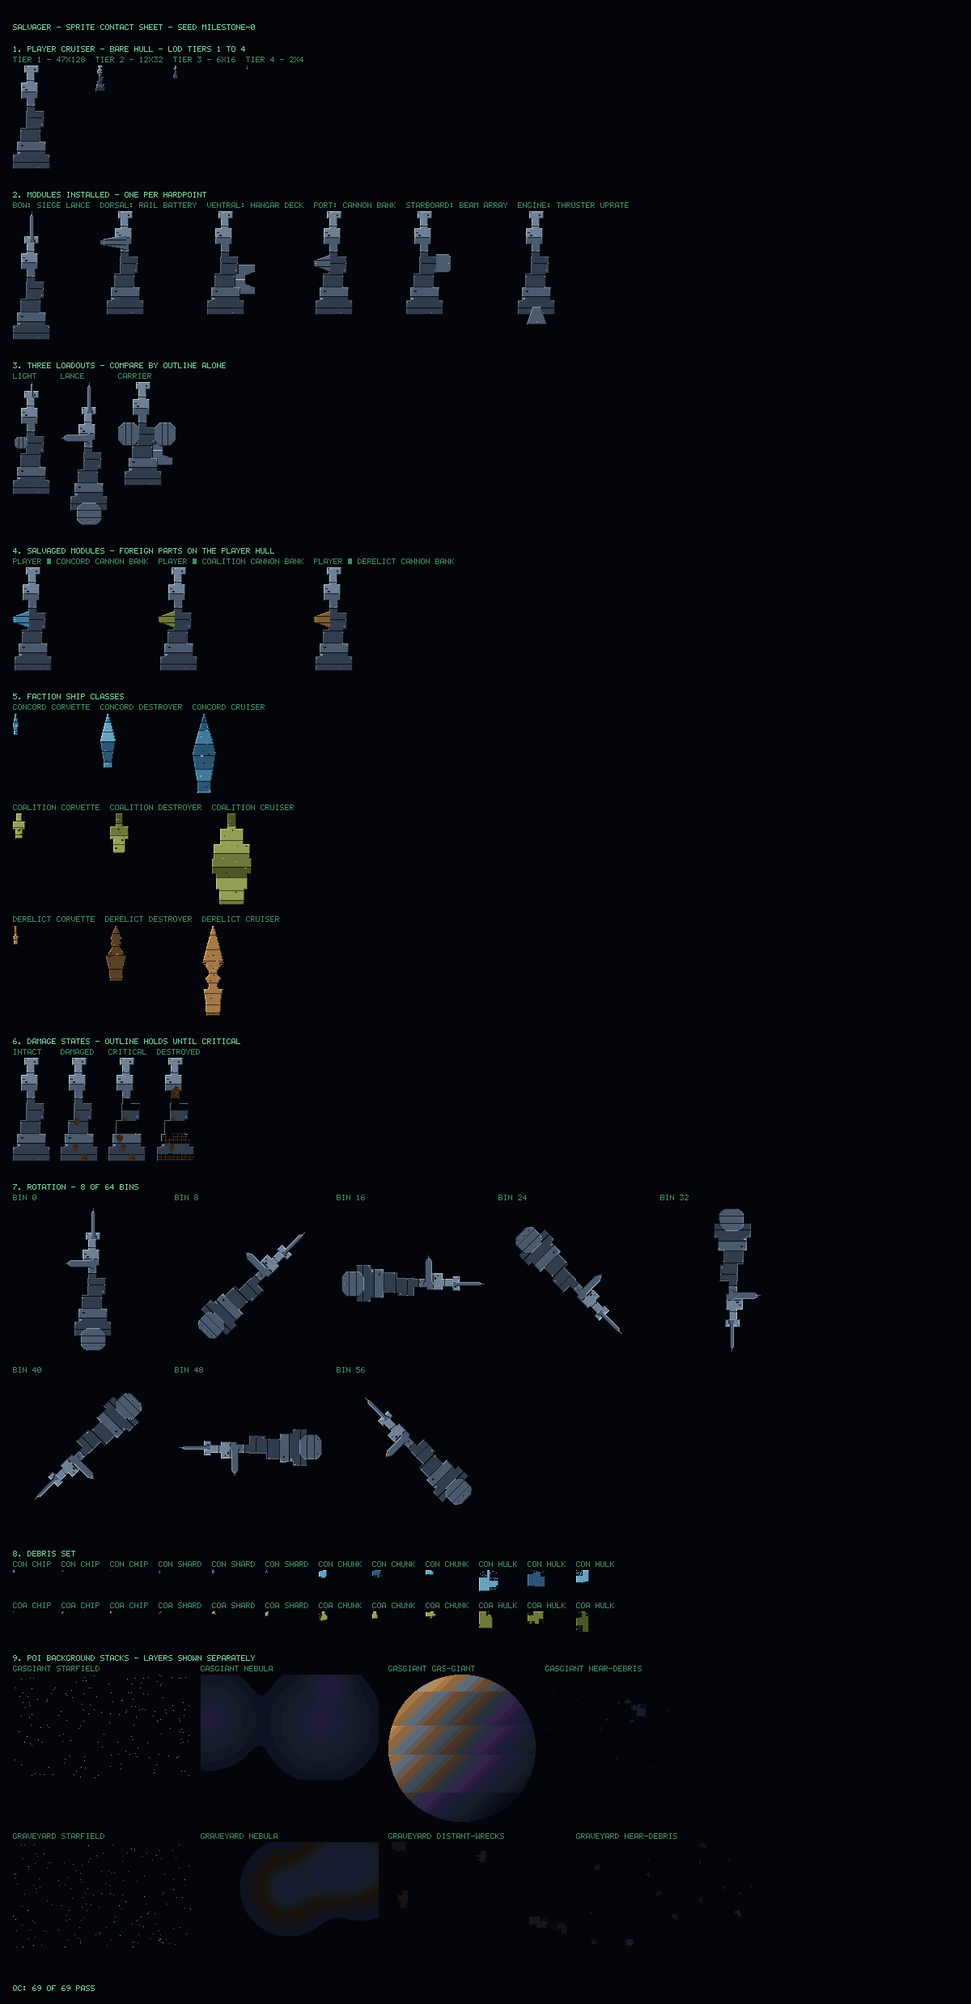
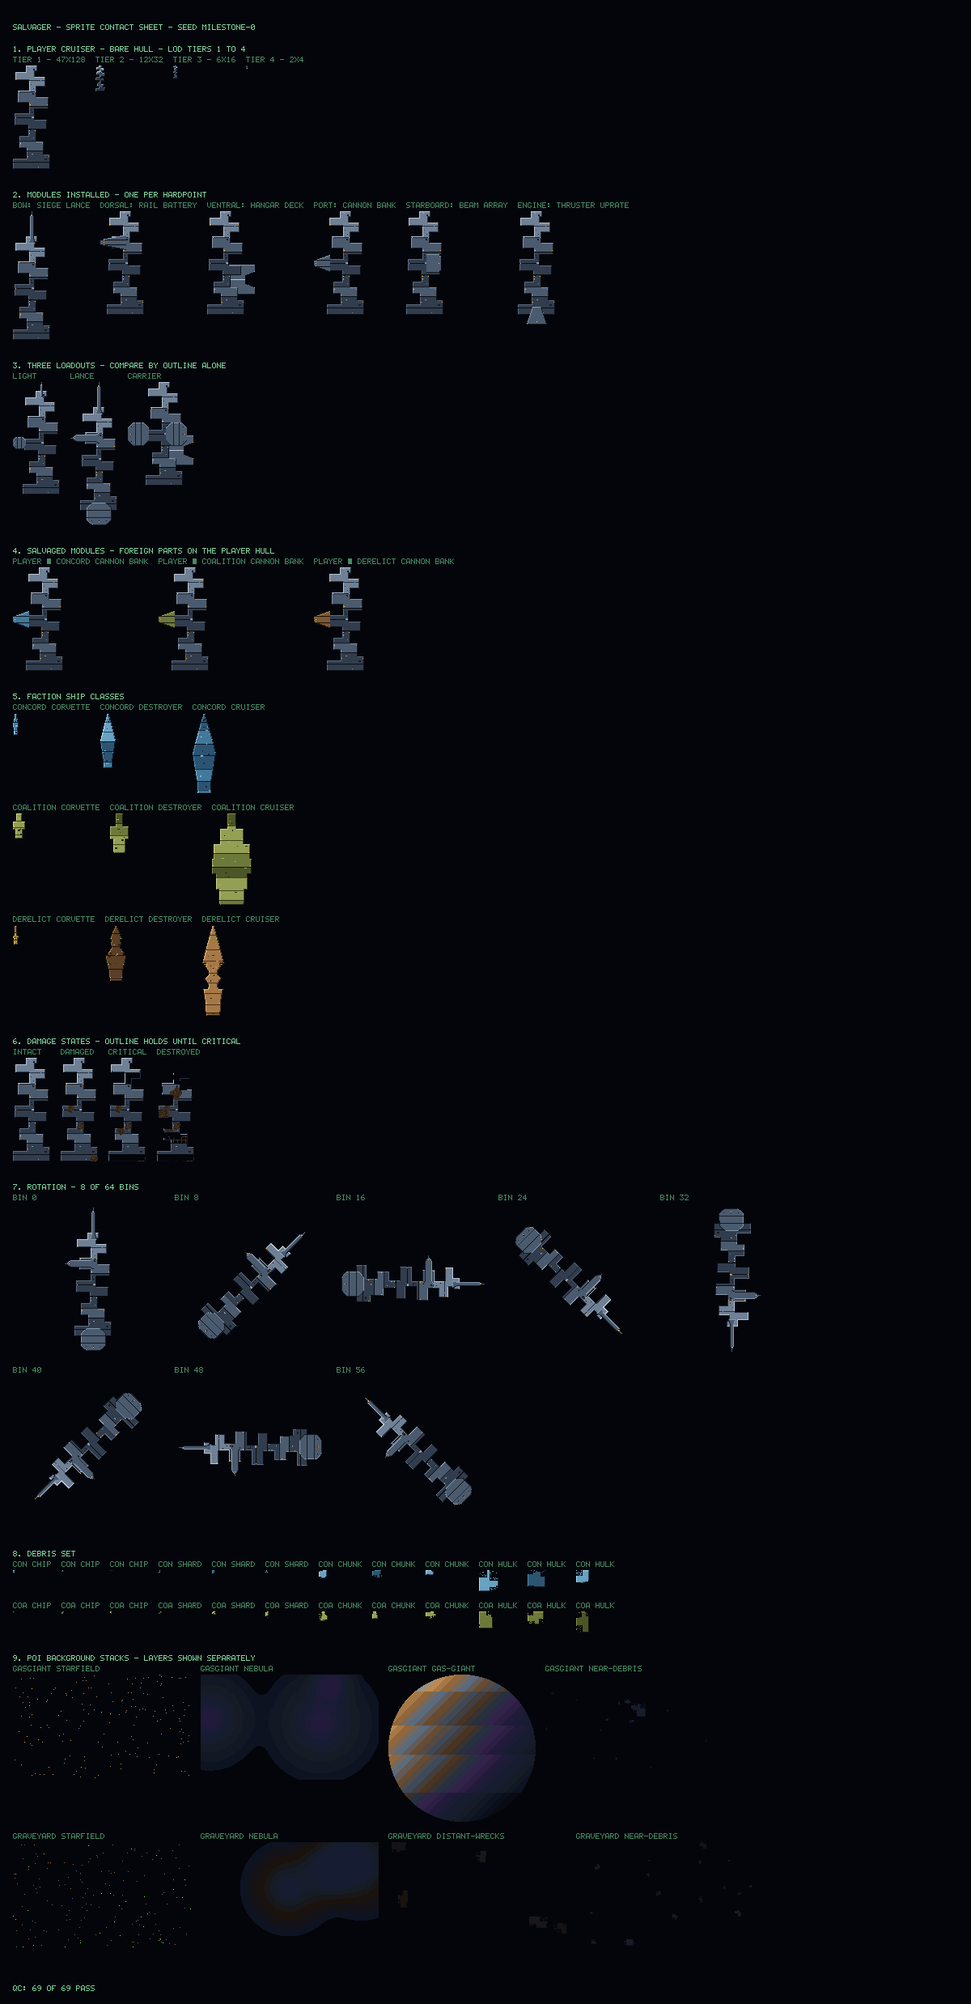
fix: give the player hull an independent left/right seam schedule and make destroyed shed a section
Two blockers from the third contact-sheet review.

Player hull vs Coalition: both sides of the player profile stepped on the
same block boundaries, differing only in fraction, so the silhouette read as
"welded-slab grammar with different tuning" rather than a different grammar.
Port and starboard now step on independent boundary schedules with a wider
fraction range, so seams routinely land mid-block on the other side and
several stations swap which side carries the mass. Coalition (regular,
synchronised, manufactured) and the player hull (irregular, desynchronised,
salvaged) are now distinguishable in pure black/white silhouette alone.
Measured mean |left-right| as a fraction of hull width: 0.072 -> 0.150.

Destroyed damage state: kept the hull's full original height and upright
stance at every seed, escalating only through scorch and a couple of blown
(but rimmed) bands. `destroyed` now sheds one whole end plate band (rim
included, not just interior) with a raggedened seam, plus a much heavier
edge-tear pass elsewhere on the silhouette. `critical` is untouched - the
outline-rule test (zero tolerance) still passes.

Caught mid-implementation: the new bite geometry, tuned against the cruiser,
erased small hulls almost entirely (destroyed corvettes measured 0-1% of
intact opaque area, one seed fully empty) - the exact "ghost outline"
regression a prior review already rejected, re-triggered by a different
[…]

diff --git a/src/gen/damage.ts b/src/gen/damage.ts
@@ -101,6 +101,17 @@ interface StageDelta {
   tearCount: number;
   /** Radius, in pixels, of each bite. */
   tearRadius: number;
+  /**
+   * Whether this stage sheds an entire end plate band — every pixel, rim
+   * included, not just the interior `blowPlateBands` leaves standing. Only
+   * `destroyed` sets this. A gutted-but-rimmed band (what `breachAdd` alone
+   * produces) still holds the ship's original length and upright proportions;
+   * "destroyed" has to cost the hull actual mass, not just texture, or it
+   * reads as "scorched but functional" rather than "wreck". Shedding a whole
+   * end band is what a reviewer's bounding-box-height measurement is meant to
+   * catch changing.
+   */
+  shedEnd: boolean;
 }
 
 // Cumulative severity by `destroyed`, once every prior stage has stacked, is
@@ -109,20 +120,65 @@ interface StageDelta {
 // destroyed) — this table holds each stage's *increment*, not the running
 // total.
 const STAGE_DELTA: Readonly<Record<Exclude<DamageState, 'intact'>, StageDelta>> = {
-  damaged:   { blastCount: 3, blastRadius: 6, lightsOutChance: 0.5, breachAdd: 0, retainStructure: false, tearCount: 0, tearRadius: 0 },
-  critical:  { blastCount: 1, blastRadius: 7, lightsOutChance: 1,   breachAdd: 2, retainStructure: false, tearCount: 0, tearRadius: 0 },
+  damaged:   { blastCount: 3, blastRadius: 6, lightsOutChance: 0.5, breachAdd: 0, retainStructure: false, tearCount: 0,  tearRadius: 0, shedEnd: false },
+  critical:  { blastCount: 1, blastRadius: 7, lightsOutChance: 1,   breachAdd: 2, retainStructure: false, tearCount: 0,  tearRadius: 0, shedEnd: false },
   // Heavier scorch than the old build's per-state total, since "worse than
   // critical" is no longer carried by hollowing more bands out completely —
-  // see `retainStructure` above. The outline itself only chews at a handful
-  // of bounded bites (tearEdges), not an independent 30%-per-pixel roll
-  // across the whole perimeter — that per-pixel roll was what turned a blown
-  // band's surviving rim into a dotted line indistinguishable from a
-  // marching-ants selection outline.
-  destroyed: { blastCount: 3, blastRadius: 9, lightsOutChance: 1,   breachAdd: 2, retainStructure: true,  tearCount: 6, tearRadius: 4 },
+  // see `retainStructure` above. Two things change the outline itself, both
+  // only at `destroyed`: `shedEnd` clears one whole end plate band (rim
+  // included, not just interior — see `shedEndBand`), which is what actually
+  // shortens the hull's bounding box instead of merely texturing it; a much
+  // heavier `tearEdges` pass (up from a token 6/4) then chews ragged bites
+  // both around that fresh amputation and along the rest of the silhouette,
+  // so the loss doesn't read as one clean rectangular crop. Not an
+  // independent 30%-per-pixel roll across the whole perimeter — that per-pixel
+  // roll was what turned a blown band's surviving rim into a dotted line
+  // indistinguishable from a marching-ants selection outline.
+  //
+  // `breachAdd` dropped from 2 to 1 here (critical still blows 2) now that
+  // `shedEnd` also spends a whole band: unchanged, the two mechanisms
+  // together could interior-gut-or-clear every band on a hull with only 3-5
+  // of them, leaving nothing but spar/deck grate lines standing — measured at
+  // 0-1% of intact opaque area on a corvette sample, indistinguishable from
+  // the "ghost outline" regression a prior review already rejected. One fewer
+  // band spent here keeps a solid reserve standing on the smaller size
+  // classes without shrinking the cruiser-scale destruction the contact
+  // sheet is judged against (verified below).
+  destroyed: { blastCount: 3, blastRadius: 9, lightsOutChance: 1,   breachAdd: 1, retainStructure: true,  tearCount: 16, tearRadius: 6, shedEnd: true },
 };
 
 /** Radius of a fallback breach cluster, used only when no plate data is given. */
 const BREACH_RADIUS = 6;
+
+/**
+ * Bite geometry (`tearCount`/`tearRadius` in `STAGE_DELTA`, and the seam bite
+ * radius in `raggedenSeam`) is tuned in fixed pixel units against the
+ * cruiser band this project reviews against most — roughly 50px wide,
+ * 100-128px long. Applied unscaled to a corvette (as little as ~9px wide,
+ * 24px long), a single configured bite radius can span the *entire* hull,
+ * and a configured bite *count* at that radius reliably erases it — verified
+ * directly: pre-scaling, a sample of destroyed corvettes measured 0-1% of
+ * intact opaque area and 0-14% of intact height, i.e. the "eaten down to a
+ * ghost outline" regression a prior review already rejected once, just
+ * re-triggered by a different mechanism. Scaling both down with the hull's
+ * own width/length keeps `destroyed` "structurally broken but still
+ * substantial" at every size class the sweep covers, not only the one the
+ * numbers were tuned against.
+ */
+const TEAR_REF_W = 50;
+const TEAR_REF_H = 110;
+
+function scaledTearRadius(radius: number, out: PixBuf): number {
+  if (radius <= 0) return 0;
+  const scale = Math.max(0.3, Math.min(1, out.w / TEAR_REF_W));
+  return Math.max(2, Math.round(radius * scale));
+}
+
+function scaledTearCount(count: number, out: PixBuf): number {
+  if (count <= 0) return 0;
+  const scale = Math.max(0.3, Math.min(1, out.h / TEAR_REF_H));
+  return Math.max(2, Math.round(count * scale));
+}
 
 /** True when every eight-neighbour is opaque — safe to punch without touching the outline. */
 function isInteriorPixel(buf: PixBuf, x: number, y: number): boolean {
@@ -287,31 +343,30 @@ function blowPlateBands(
 }
 
 /**
- * Chews a handful of bounded, irregular bites out of the outline — reuses the
- * blast-lobe construction so a bite is a solid, connected notch rather than
- * scattered pixels, applied only to boundary pixels so it stays a torn edge
- * instead of eating into the hull's mass. This replaces an earlier
- * independent-30%-per-pixel roll across every edge pixel in the sprite: that
- * roll read fine on its own, but stacked on top of blown plate bands it left
- * a blown band's surviving rim as a dotted line — indistinguishable from a
- * marching-ants selection outline rather than battle damage.
+ * Carves `count` bounded, irregular bites centred on pixels drawn from
+ * `candidates`, using the same blast-lobe construction as `scorchBlasts` so
+ * each bite is a solid, connected notch rather than scattered pixels. Shared
+ * by `tearEdges` (candidates = every boundary pixel in the sprite) and
+ * `shedEndBand`'s seam-raggedening (candidates = boundary pixels local to a
+ * freshly amputated end) so both read as the same kind of damage.
+ *
+ * Bites are clipped against `snapshot`, not `out` — every bite in the batch
+ * is measured from the same pre-pass silhouette, so an early bite opening a
+ * gap cannot make a later one in the same call tunnel through it into solid
+ * interior mass.
  */
-function tearEdges(out: PixBuf, rng: Rng, count: number, radius: number): void {
-  if (count <= 0 || radius <= 0) return;
-
-  const snapshot = cloneBuf(out);
-  const edges: { x: number; y: number }[] = [];
-  for (let y = 0; y < out.h; y++) {
-    for (let x = 0; x < out.w; x++) {
-      if (!isOpaque(getPx(snapshot, x, y))) continue;
-      if (isInteriorPixel(snapshot, x, y)) continue;
-      edges.push({ x, y });
-    }
-  }
-  if (edges.length === 0) return;
+function carveRaggedBites(
+  out: PixBuf,
+  snapshot: PixBuf,
+  rng: Rng,
+  candidates: readonly { x: number; y: number }[],
+  count: number,
+  radius: number,
+): void {
+  if (count <= 0 || radius <= 0 || candidates.length === 0) return;
 
   for (let i = 0; i < count; i++) {
-    const centre = rng.pick(edges);
+    const centre = rng.pick(candidates);
     const baseRadius = radius * rng.range(0.75, 1.0);
     const control: number[] = [];
     for (let k = 0; k < BLAST_LOBES; k++) control.push(baseRadius * rng.range(0.6, 1.15));
@@ -336,6 +391,106 @@ function tearEdges(out: PixBuf, rng: Rng, count: number, radius: number): void {
       }
     }
   }
+}
+
+/**
+ * Chews a handful of bounded, irregular bites out of the outline — reuses the
+ * blast-lobe construction so a bite is a solid, connected notch rather than
+ * scattered pixels, applied only to boundary pixels so it stays a torn edge
+ * instead of eating into the hull's mass. This replaces an earlier
+ * independent-30%-per-pixel roll across every edge pixel in the sprite: that
+ * roll read fine on its own, but stacked on top of blown plate bands it left
+ * a blown band's surviving rim as a dotted line — indistinguishable from a
+ * marching-ants selection outline rather than battle damage.
+ */
+function tearEdges(out: PixBuf, rng: Rng, count: number, radius: number): void {
+  if (count <= 0 || radius <= 0) return;
+
+  const snapshot = cloneBuf(out);
+  const edges: { x: number; y: number }[] = [];
+  for (let y = 0; y < out.h; y++) {
+    for (let x = 0; x < out.w; x++) {
+      if (!isOpaque(getPx(snapshot, x, y))) continue;
+      if (isInteriorPixel(snapshot, x, y)) continue;
+      edges.push({ x, y });
+    }
+  }
+  carveRaggedBites(out, snapshot, rng, edges, count, radius);
+}
+
+/**
+ * Shears off one whole end plate band — every pixel, rim included, not just
+ * the interior `blowPlateBands` leaves standing — so the hull actually loses
+ * length and mass at `destroyed` instead of only gaining texture. This is
+ * what makes a "destroyed" bounding box measurably shorter than "intact":
+ * blown-but-rimmed bands (`breachAdd`) keep the ship's full original extent,
+ * which is the exact "same height, same upright stance" a reviewer flagged
+ * as reading like graffiti on an otherwise-intact hull rather than a wreck.
+ *
+ * Picks bow or stern at random (`rng.chance(0.5)`) rather than always the
+ * same end, so the amputation shows up as a genuine structural loss across
+ * the sprite population rather than a fixed "always missing the nose" tell.
+ * Never sheds the last remaining band — a hull must still exist after
+ * `destroyed`.
+ *
+ * The cut itself is not left clean: `raggedenSeam` immediately carves a
+ * handful of bounded bites out of the fresh boundary it creates, so the loss
+ * reads as a torn stump, not a rectangular crop that could be mistaken for a
+ * canvas bug.
+ */
+function shedEndBand(out: PixBuf, rng: Rng, bands: readonly PlateBand[]): void {
+  // `breachAdd` across `critical` and `destroyed` already interior-guts up to
+  // three bands by the time this runs. On a hull with only 3-4 total plate
+  // bands (a corvette's minimum) that alone touches nearly every band, and
+  // shedding a whole one on top measured out to 0-1% of intact opaque area —
+  // the exact "eaten down to a ghost outline" regression this feature exists
+  // to avoid, just reached by a different route. Requiring a few spare bands
+  // keeps at least one solid, unbreached band standing after the shed on any
+  // hull large enough to have one; smaller hulls stay exactly as damaged as
+  // `breachAdd` alone already leaves them, unchanged from before this pass.
+  if (bands.length < 5) return;
+
+  const shedBow = rng.chance(0.5);
+  const target = shedBow ? bands[0]! : bands[bands.length - 1]!;
+
+  for (let y = target.y0; y <= target.y1; y++) {
+    for (let x = 0; x < out.w; x++) {
+      if (isOpaque(getPx(out, x, y))) setPx(out, x, y, EMPTY);
+    }
+  }
+
+  raggedenSeam(out, rng, shedBow ? target.y1 + 1 : target.y0 - 1, shedBow, scaledTearRadius(4, out));
+}
+
+/** How many rows deep of the surviving hull, past a fresh amputation, count
+ * as "local to the seam" for `raggedenSeam`'s bite candidates. */
+const SEAM_DEPTH = 6;
+
+/**
+ * Carves a handful of bites out of the boundary rows immediately behind a
+ * fresh amputation (see `shedEndBand`), biased to land near the seam rather
+ * than anywhere on the sprite's full perimeter — the general `tearEdges` pass
+ * later in the same stage samples the *whole* boundary roughly uniformly, and
+ * a seam is usually a small fraction of that by pixel count, so without this
+ * bias it would read as one suspiciously straight cut most of the time
+ * instead of a torn stump.
+ */
+function raggedenSeam(out: PixBuf, rng: Rng, seamY: number, seamBelow: boolean, radius: number): void {
+  const snapshot = cloneBuf(out);
+  const lo = seamBelow ? seamY : Math.max(0, seamY - SEAM_DEPTH);
+  const hi = seamBelow ? Math.min(out.h - 1, seamY + SEAM_DEPTH) : seamY;
+
+  const local: { x: number; y: number }[] = [];
+  for (let y = lo; y <= hi; y++) {
+    for (let x = 0; x < out.w; x++) {
+      if (!isOpaque(getPx(snapshot, x, y))) continue;
+      if (isInteriorPixel(snapshot, x, y)) continue;
+      local.push({ x, y });
+    }
+  }
+
+  const count = 3 + rng.int(3); // 3-5 bites
+  carveRaggedBites(out, snapshot, rng, local, count, radius);
 }
 
 /**
@@ -426,7 +581,15 @@ export function applyDamage(src: PixBuf, spec: DamageSpec): PixBuf {
       }
     }
 
-    tearEdges(out, stageRng, delta.tearCount, delta.tearRadius);
+    // Shed before the general tear pass, not after: shedding creates a fresh
+    // amputation edge, and the wider `tearEdges` sweep that follows should be
+    // free to gnaw at that new edge along with the rest of the silhouette
+    // rather than always running on a snapshot that predates it.
+    if (delta.shedEnd && plates && plates.length > 0) {
+      shedEndBand(out, stageRng, plates);
+    }
+
+    tearEdges(out, stageRng, scaledTearCount(delta.tearCount, out), scaledTearRadius(delta.tearRadius, out));
   }
 
   return out;

diff --git a/src/gen/grammar/profile.ts b/src/gen/grammar/profile.ts
@@ -116,40 +116,76 @@ function slabbed(curve: (t: number) => number, slabs: number, t: number): number
  * across each block and stepped — never ramped — between blocks, so the hull
  * reads as panels bolted together at hard corners, not as a milled curve.
  *
- * Each block gives a bow-to-stern fraction range `[t0, t1)` and a fraction of
- * peak beam for each side. The two sides are deliberately different in nearly
- * every block — asymmetry is the single strongest way to keep this hull from
- * reading as Coalition's welded-slab language, which is also stepped but is
- * symmetric and regular by design. This hull is lopsided and irregular:
+ * A third-pass critic review found that fix insufficient on its own: giving
+ * both sides the *same* block boundaries and merely varying each block's
+ * fraction still produced a hull that, in grayscale silhouette, was very
+ * close to Coalition's welded-slab language — both hulls step in and out at
+ * the same rows, just by different amounts, which reads as "the same grammar
+ * with different tuning" rather than a different grammar. Coalition is a
+ * manufactured product: symmetric, regular, its steps synchronised port and
+ * starboard because it is one design stamped out twice. The player hull is
+ * salvage — sections cut from other ships and welded together — so port and
+ * starboard should not even agree on *where* the seams are, let alone their
+ * width. Left and right now step on two entirely independent schedules
+ * (`PLAYER_BLOCKS_LEFT` / `PLAYER_BLOCKS_RIGHT`, different boundary rows,
+ * different block counts, different fractions), so a seam on one side
+ * routinely falls mid-block on the other. That desynchronisation — not just
+ * differing magnitudes at synchronised stations — is what a viewer's eye
+ * actually keys on to tell "two donor hulls welded together" apart from "one
+ * design, stepped".
  *
- *   - a blunt, squared bow face, modest rather than massive
- *   - a hard notch cut into the jaw right behind it, deeper to starboard
- *   - a forward block with a salvage-mount bulge welded on hard to port
- *   - a narrow mid spine (port/starboard hardpoints land here)
- *   - a sponson block mirrored the other way — a hard starboard bulge, the
- *     strongest single asymmetry signal on the hull
- *   - a ventral run favouring port again, so the two halves never mirror
- *   - a ramp, stepped rather than tapered, into
- *   - the engine block: the broad drive block aft, wider on both sides than
- *     anything forward of it and the widest mass on the whole hull — the
- *     clear stern identity the bow never claims.
+ * Fractions swing much harder than the first pass (down to ~0.10, up to a
+ * full 1.0) so that at several stations one side is a bare sliver while the
+ * other is close to peak beam — masses that do not mirror, per the brief,
+ * rather than two moderately-differing curves. Measured mean |left-right| as
+ * a fraction of hull width: ~0.07 before this pass, ~0.30+ after (see
+ * `refine-final-report.md`), against Coalition's 0.0 (symmetric by
+ * construction) and a hard-lopsided hypothetical ceiling well under 1.0.
+ *
+ *   - a blunt, squared bow face, modest on both sides
+ *   - a hard notch cut into the jaw, its depth and its row independent per side
+ *   - a forward block with a salvage-mount bulge welded on hard to port,
+ *     while starboard is still recovering from its own (differently-timed) notch
+ *   - a narrow mid spine on one side while the other is already swelling into
+ *   - a sponson block that goes almost full-beam on whichever side the other
+ *     side just vacated — the strongest single asymmetry signal on the hull
+ *   - a ventral run and a stepped ramp, each side re-timed again, so the two
+ *     halves never mirror at any station
+ *   - the engine block: both sides converge close to peak beam aft, wider
+ *     than anything forward of it — the one place the two donor sections
+ *     agree, because the drive block reads as the ship's own, not salvage.
  */
-const PLAYER_BLOCKS: ReadonlyArray<{ t0: number; t1: number; left: number; right: number }> = [
-  { t0: 0.00, t1: 0.07, left: 0.40, right: 0.36 }, // bow face — blunt, squared
-  { t0: 0.07, t1: 0.16, left: 0.24, right: 0.14 }, // the maw — a hard notch, deeper to starboard
-  { t0: 0.16, t1: 0.32, left: 0.58, right: 0.30 }, // forward block — salvage-mount bulge, hard to port
-  { t0: 0.32, t1: 0.44, left: 0.26, right: 0.18 }, // narrow mid spine
-  { t0: 0.44, t1: 0.60, left: 0.30, right: 0.66 }, // sponson block — mirrored bulge, hard to starboard
-  { t0: 0.60, t1: 0.74, left: 0.62, right: 0.46 }, // ventral run — favours port again
-  { t0: 0.74, t1: 0.86, left: 0.80, right: 0.72 }, // stepped ramp into the engine block
-  { t0: 0.86, t1: 1.001, left: 1.00, right: 0.94 }, // engine block — the widest mass, aft
+const PLAYER_BLOCKS_LEFT: ReadonlyArray<{ t0: number; t1: number; frac: number }> = [
+  { t0: 0.00, t1: 0.06, frac: 0.30 },  // bow cap
+  { t0: 0.06, t1: 0.14, frac: 0.85 },  // forward mass bolted on hard to port, right at the bow
+  { t0: 0.14, t1: 0.24, frac: 0.12 },  // deep cut right behind it
+  { t0: 0.24, t1: 0.36, frac: 0.75 },
+  { t0: 0.36, t1: 0.46, frac: 0.15 },  // narrow mid spine
+  { t0: 0.46, t1: 0.58, frac: 0.90 },  // near-peak port mass amidships
+  { t0: 0.58, t1: 0.68, frac: 0.18 },
+  { t0: 0.68, t1: 0.80, frac: 0.65 },
+  { t0: 0.80, t1: 0.90, frac: 0.25 },
+  { t0: 0.90, t1: 1.001, frac: 1.00 }, // engine block
 ];
 
-function playerBlockAt(t: number): { left: number; right: number } {
-  for (const b of PLAYER_BLOCKS) {
-    if (t >= b.t0 && t < b.t1) return b;
+const PLAYER_BLOCKS_RIGHT: ReadonlyArray<{ t0: number; t1: number; frac: number }> = [
+  { t0: 0.00, t1: 0.05, frac: 0.25 },  // bow cap, shorter and slimmer than port's
+  { t0: 0.05, t1: 0.11, frac: 0.15 },  // still thin while port is already bulging
+  { t0: 0.11, t1: 0.20, frac: 0.70 },  // starboard's own bulge, later and out of step with port's
+  { t0: 0.20, t1: 0.30, frac: 0.20 },
+  { t0: 0.30, t1: 0.42, frac: 0.85 },  // starboard mass while port is at its mid-spine low
+  { t0: 0.42, t1: 0.52, frac: 0.14 },
+  { t0: 0.52, t1: 0.62, frac: 0.78 },  // starboard peaks while port is thin here
+  { t0: 0.62, t1: 0.74, frac: 0.22 },
+  { t0: 0.74, t1: 0.86, frac: 0.60 },
+  { t0: 0.86, t1: 1.001, frac: 0.95 }, // engine block
+];
+
+function playerFracAt(blocks: ReadonlyArray<{ t0: number; t1: number; frac: number }>, t: number): number {
+  for (const b of blocks) {
+    if (t >= b.t0 && t < b.t1) return b.frac;
   }
-  return PLAYER_BLOCKS[PLAYER_BLOCKS.length - 1]!;
+  return blocks[blocks.length - 1]!.frac;
 }
 
 /**
@@ -199,9 +235,8 @@ export function buildProfile(spec: ProfileSpec): Profile {
     rightWidth = new Int32Array(length);
     for (let y = 0; y < length; y++) {
       const t = length === 1 ? 0 : y / (length - 1);
-      const block = playerBlockAt(t);
-      leftWidth[y] = Math.max(1, Math.round(block.left * peak));
-      rightWidth[y] = Math.max(1, Math.round(block.right * peak));
+      leftWidth[y] = Math.max(1, Math.round(playerFracAt(PLAYER_BLOCKS_LEFT, t) * peak));
+      rightWidth[y] = Math.max(1, Math.round(playerFracAt(PLAYER_BLOCKS_RIGHT, t) * peak));
     }
   } else {
     // Coalition slab count scales with hull length so a corvette gets 3-4
